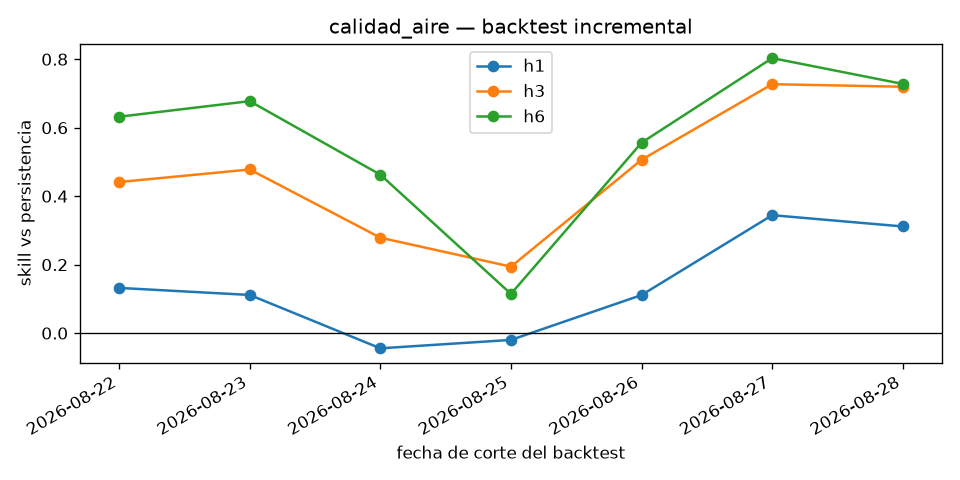
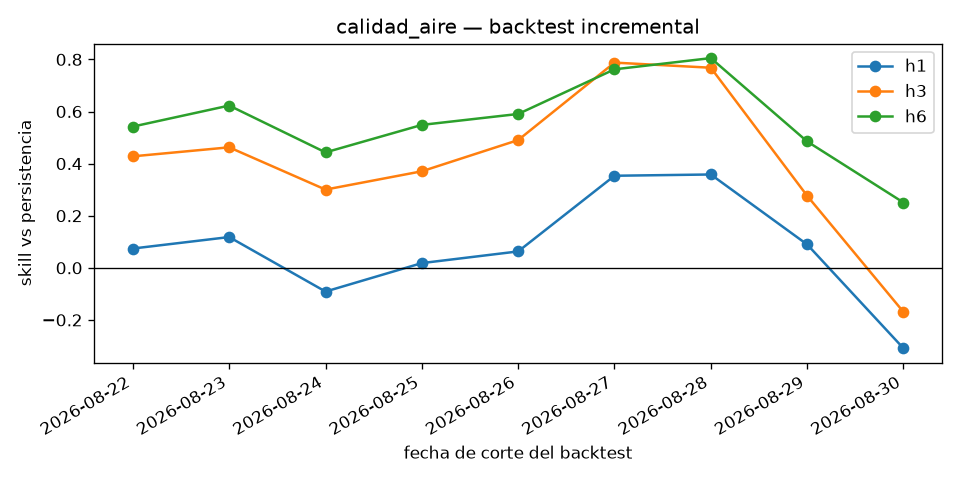
docs(VIKT_05): decision final sobre Tabla 3 -- publicar skill medio+rango del backtest, redaccion exacta lista
Usuario aprobo la opcion de publicar skill medio+rango en vez de un
refresco puntual. Backtest incremental real recalculado hoy (9 cortes,
22-30 ago) contra los paneles con las features exogenas de ML_01:
calidad_aire h1/h3/h6 = 0.07/0.41/0.56 (rangos con volatilidad real
documentada), trafico = 0.32/0.53/0.67. Redaccion exacta old-text->new-text
para Tabla 3 (SS7.2) y SS7.5 lista para que Victor/Filippos la apliquen al
.docx (bloqueado para esta sesion). status se mantiene pending -- falta
la edicion humana real.

diff --git a/tasks/VIKT_05_memoria-ml01-gap-cerrado.md b/tasks/VIKT_05_memoria-ml01-gap-cerrado.md
@@ -127,3 +127,70 @@ hace falta re-ingestar nada) para refrescar la Tabla 3 con las features
 nuevas antes del 17/9, o documentar explícitamente en §7.4/§7.5 que la
 Tabla 3 es anterior a este cierre de gap. No se ha tocado
 `documents/Memoria_TFM FV.docx` en este ticket.
+
+## Decisión final (31/8, aprobada por el usuario) y redacción exacta lista para aplicar
+
+**Decisión tomada**: publicar el skill **medio + rango** del backtest
+incremental en la Tabla 3, en vez de sustituirla por el número de un solo
+día (opción descartada porque calidad del aire es genuinamente volátil
+día a día, ver arriba) o dejarla con una nota de "está desactualizada" sin
+más (opción descartada por dejar un número obsoleto en la tabla de
+resultados principal).
+
+**Números reales, calculados hoy** (`python -m modelado.evaluation.backtest
+--panel modelado/_data/panel_{calidad_aire,trafico}.parquet --target ...`,
+contra los paneles reales que ya incluyen las features exógenas de
+`ML_01` — 9 cortes diarios de backtest incremental, 22–30 ago. 2026):
+
+| Fuente | h | Tabla 3 actual (memoria) | Skill medio (rango), backtest 9 días |
+|---|---|---|---|
+| Calidad del aire | 1 | 0,29 | **0,07 (−0,31 a 0,36)** |
+| Calidad del aire | 3 | 0,58 | **0,41 (−0,17 a 0,79)** |
+| Calidad del aire | 6 | 0,68 | **0,56 (0,25 a 0,81)** |
+| Tráfico | 1 | 0,37 | **0,32 (0,24 a 0,37)** |
+| Tráfico | 3 | 0,61 | **0,53 (0,44 a 0,59)** |
+| Tráfico | 6 | 0,76 | **0,67 (0,55 a 0,75)** |
+
+Fuente de los números:
+`modelado/evaluation/artifacts/backtest/backtest_{calidad_aire,trafico}.csv`
+(regenerados hoy, `31/8`). `backtest_calidad_aire.csv` ya estaba trackeado
+en git y se actualiza con este commit; `backtest_trafico.csv` es nuevo y
+queda fuera del repo por el `.gitignore` existente de
+`modelado/evaluation/artifacts/` (convención ya establecida del proyecto,
+no cambiada aquí) — los números están transcritos completos en la tabla
+de arriba, no hace falta el CSV para aplicar la redacción.
+
+### Redacción exacta propuesta para `documents/Memoria_TFM FV.docx`
+
+**1. Tabla 3 (§7.2)** — sustituir los 6 valores de skill por los de la
+columna "Skill medio (rango)" de arriba, y añadir una nota al pie de
+tabla (texto nuevo, no reemplaza nada):
+
+> *Skill medio (LightGBM vs. mejor línea base) de un backtest incremental
+> de 9 cortes diarios (22–30 de agosto de 2026), no de una única corrida
+> puntual — el rango entre paréntesis refleja la varianza real día a día,
+> especialmente marcada en calidad del aire a 1-3h (ver §7.4).*
+
+**2. §7.5 (futuras líneas)** — el párrafo que motivó este ticket:
+
+- **Dice hoy**: "Cerrar el hueco del feature store (`modelado/`):
+  incorporar el join real con la previsión meteorológica de AEMET y los
+  festivos reales del calendario laboral de Madrid, hoy sin implementar
+  en el panel de entrenamiento."
+- **Debería decir**: "El join real con la previsión meteorológica de
+  AEMET y los festivos reales del calendario laboral de Madrid
+  (`modelado/features/exogenas.py`, `modelado/features/build.py`) ya está
+  implementado, testeado y forma parte del panel de entrenamiento real
+  que produce la Tabla 3 (§7.2)."
+- **Por qué**: el código y los tests ya existían (`VIC_12`); esta
+  actualización confirma además que los paneles reales que alimentan la
+  Tabla 3 publicada ya usan estas features (backtest de arriba, `mtime`
+  real de los parquet). Frase movida de "limitación futura" a "resultado
+  conseguido" — mismo patrón ya aplicado a otros puntos de §7.4/§7.5 en
+  `doc/VIKT-09-consistencia-final.md`.
+
+**Pendiente (fuera del alcance de Claude, bloqueo de `.docx` de esta
+sesión)**: aplicar estos dos cambios al `.docx` real. El resto de este
+ticket (investigación, verificación de datos) está completo — `status`
+se deja en `pending` porque el criterio de aceptación real ("la memoria
+refleja el estado real") requiere la edición humana del documento.
